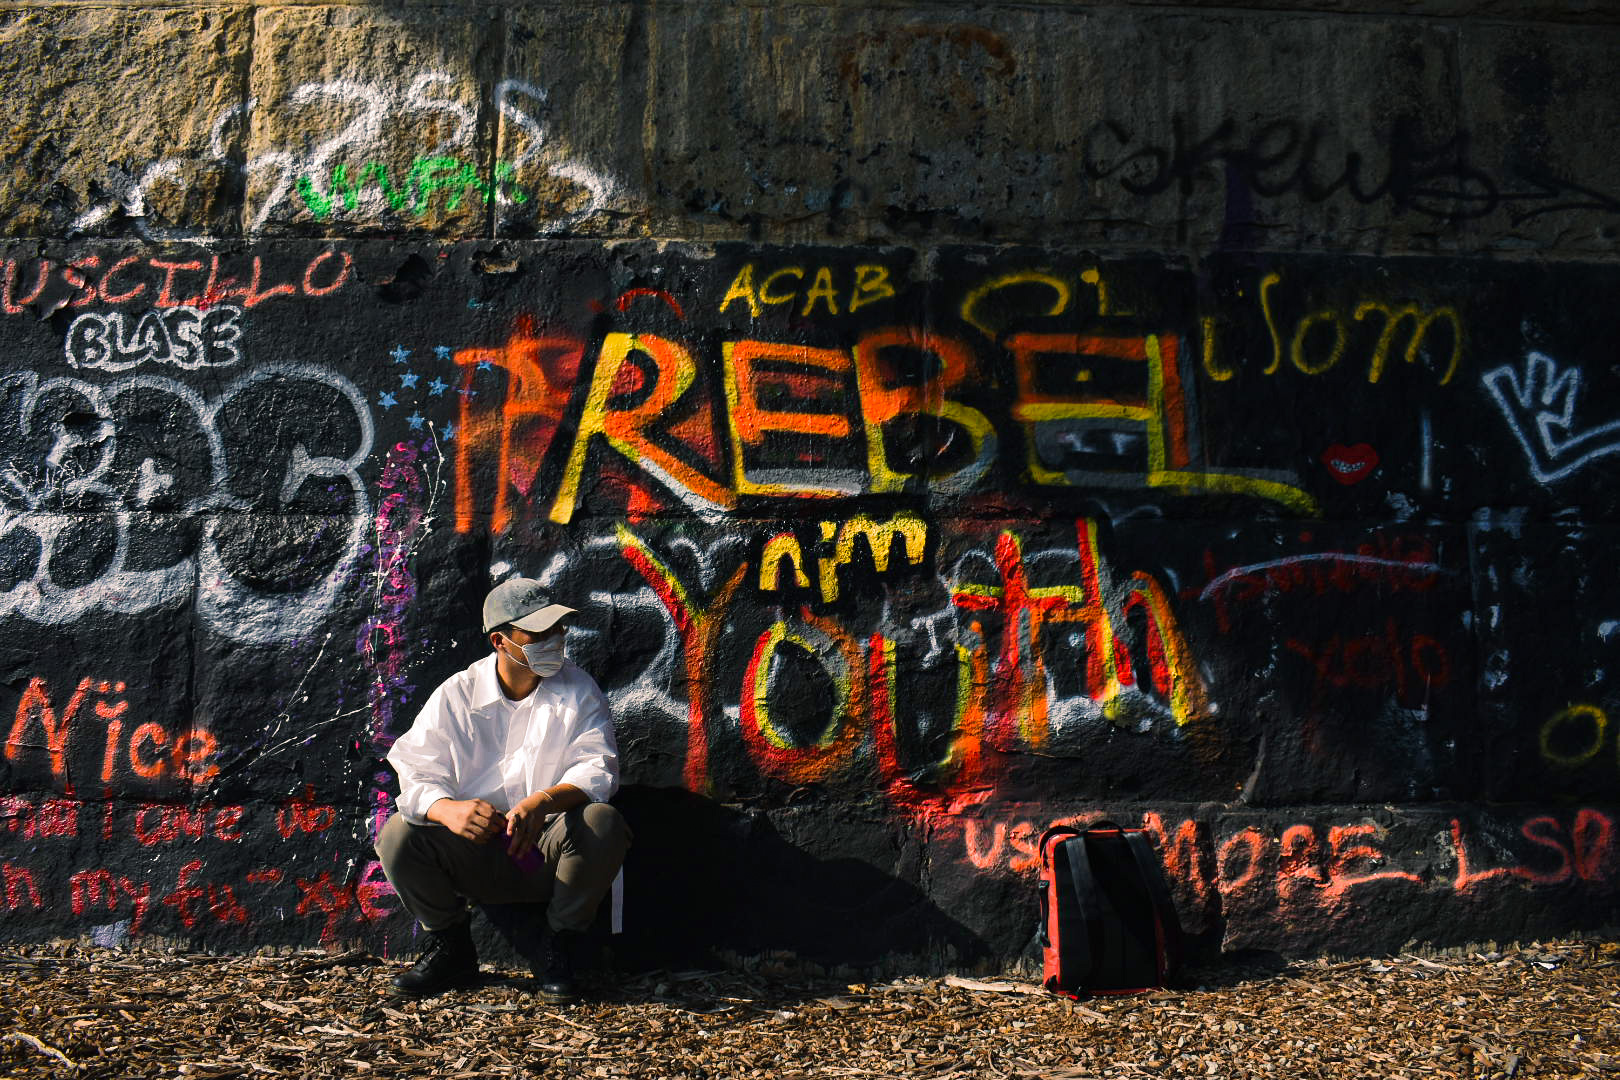
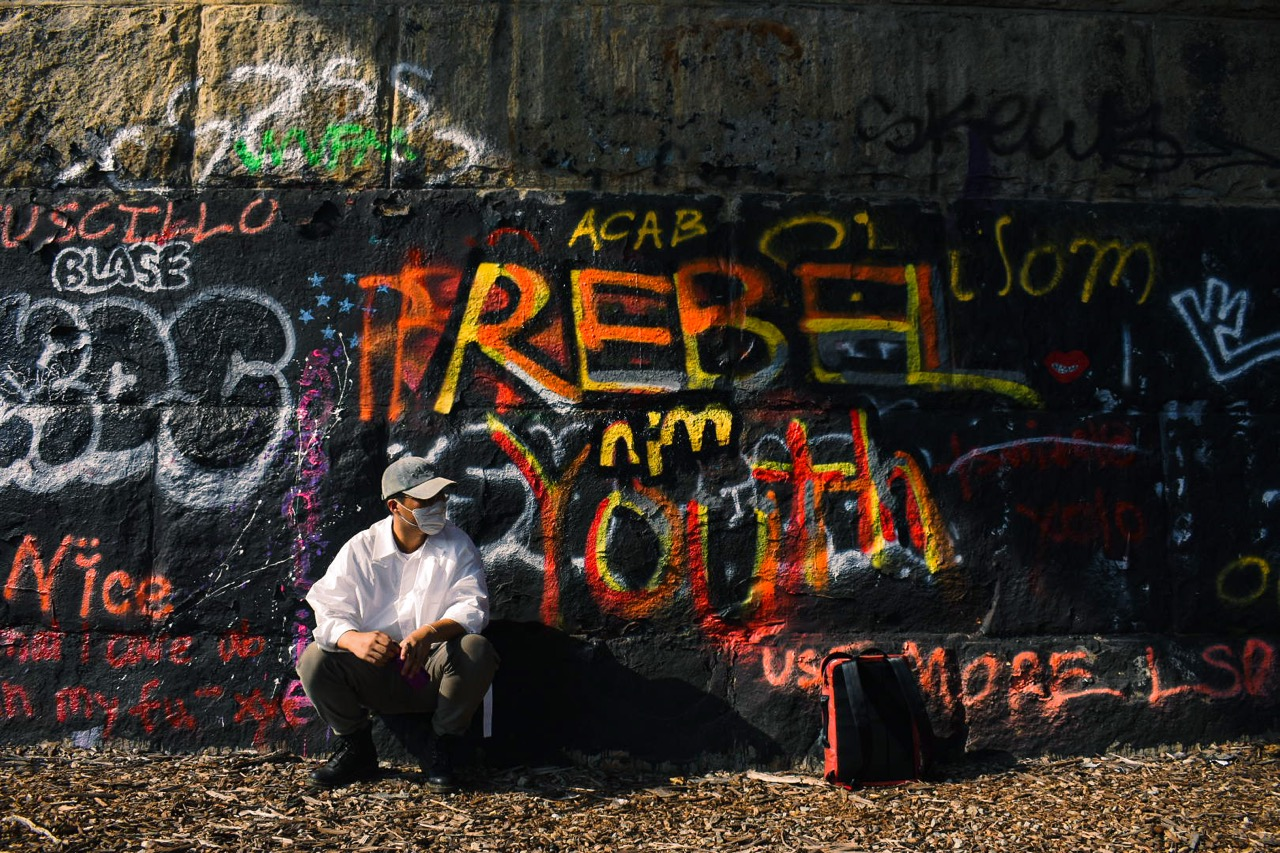
batch downsize of jpg files for (hopefully) much quicker loading

Changed region(s): [[0.0312, 0.9449, 0.0625, 1.0], [0.1562, 0.9449, 0.1875, 0.9754]]

diff --git a/index.html b/index.html
@@ -9,31 +9,6 @@
     <link rel="stylesheet" href="cover.css" />
     <link rel="icon" type="image/png" href="favicon.png"/>
 
-    <script>
-      function preloadImage(url) {
-        const img = new Image();
-        img.src = url;
-      }
-      const imageDirTups = [
-        ['images/creative/', 'o'],
-        ['images/crew/', 'm'],
-        ['images/graduation/', 'k'],
-        ['images/individual /', 'm'],
-      ];
-      imageDirTups.forEach(tup => {
-        let curr = 'a';
-        let stop = tup[1];
-        let pathPrefix = tup[0];
-        while (curr !== stop) {
-          preloadImage(pathPrefix + curr + '.jpg');
-          console.log('preloading ' + pathPrefix + curr + '.jpg');
-          curr = String.fromCharCode(
-            curr.charCodeAt(0) + 1
-          );
-        }
-      });
-    </script>
-
   </head>
 
   <body>

diff --git a/home/index.html b/home/index.html
@@ -149,7 +149,7 @@ of a new community !
         </p>
       </div>
 
-      <img class="crew-photo" src="../images/cmu dance!.PNG"/>
+      <img class="crew-photo" src="../images/cmu dance!.jpg"/>
 
     </div>
 
